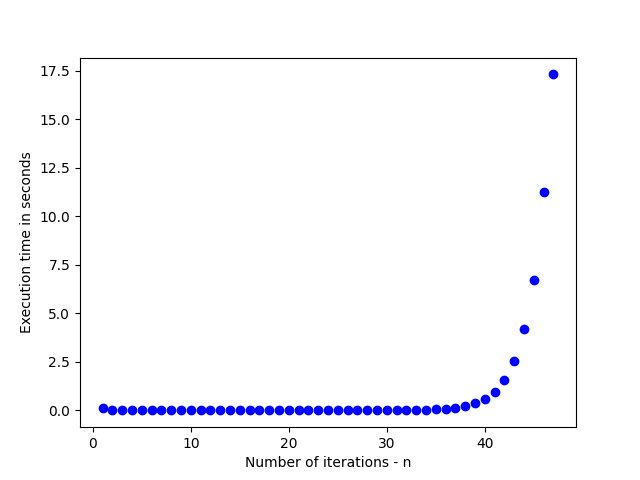
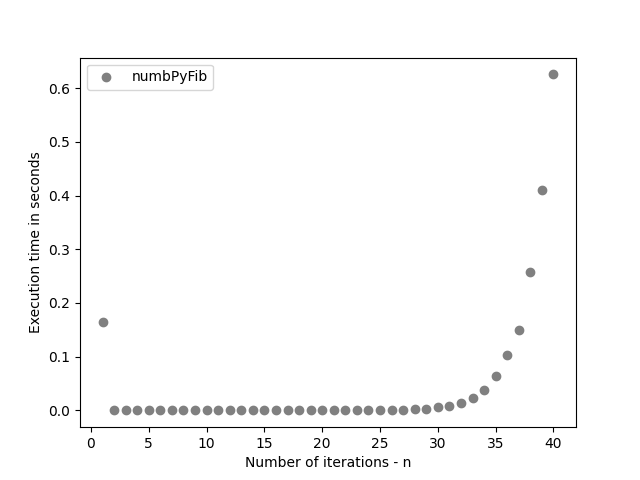
MA4 FInal

diff --git a/Pyhton_Assignments/MA4/MA4_files/MA4.py b/Pyhton_Assignments/MA4/MA4_files/MA4.py
@@ -23,11 +23,11 @@ def generate_images(n, epsilon):
         point_set_within_circle)  # we can do render using original set and points within the circle  trick but set approach is more cleaner
 
     # approximationg pi
-    import math
     print("Theoritical Pi- ", round(math.pi, 4))
     approx_pi = round(4 * (len(point_set_within_circle)) / len(point_set), 4)
     print("Appoximated Pi for {}- ".format(n), approx_pi)
     # now we draw unit circle green color
+
     import matplotlib
     matplotlib.use("Agg")
     import matplotlib.pyplot as plt
@@ -55,8 +55,8 @@ def scalar_of_point(point):
 def calc_len_of_inpoints_parallel(n, d, epsilon=0.0001):
     #print("Executing our Task on Process {}".format(os.getpid()))
     points_set = set(gen_point(d, epsilon) for _ in range(n))
-    oulier_set = set(e for e in points_set if scalar_of_point(e) <= 1)
-    inlier_set = points_set - oulier_set
+    inlier_set = set(e for e in points_set if scalar_of_point(e) <= 1)
+    oulier_set = points_set - inlier_set
     return len(inlier_set)
 
 
@@ -65,11 +65,15 @@ def hyperspace_volume_parallel(n, d, n_process=10, epsilon=0.0001):
     import concurrent.futures
     N = n//n_process
     with concurrent.futures.ProcessPoolExecutor(max_workers=n_process) as ex:
+
         result_futures = list(map(lambda x: ex.submit(
             calc_len_of_inpoints_parallel, N, d, epsilon), range(1, n_process+1)))
-        approx_pi = 4*(functools.reduce(lambda x, y: x+y,
+
+        approx_pi = 2**d*(functools.reduce(lambda x, y: x+y,
                        [e.result() for e in result_futures]))/n
+
         hyp_vol_1 = (math.pi ** d / 2) / (math.gamma(d / 2 + 1))
+        
         print("Exact value for Vd(1)- ", hyp_vol_1)
         print("Appoximated Pi for {}- ".format(n), approx_pi)
         return (hyp_vol_1, approx_pi)
@@ -77,12 +81,12 @@ def hyperspace_volume_parallel(n, d, n_process=10, epsilon=0.0001):
 
 def hyperspace_volume(n, d, epsilon=0.0001):
     points_set = set(gen_point(d, epsilon) for _ in range(n))
-    oulier_set = set(e for e in points_set if scalar_of_point(e) <= 1)
-    inlier_set = points_set - oulier_set
+    inlier_set = set(e for e in points_set if scalar_of_point(e) <= 1)
+    oulier_set = points_set - inlier_set
 
     hyp_vol_1 = (math.pi ** d / 2) / (math.gamma(d / 2 + 1))
     print("Exact value for Vd(1)- ", hyp_vol_1)
-    approx_pi = round(4 * (len(inlier_set)) / len(points_set), 4)
+    approx_pi = round(2**d * (len(inlier_set)) / len(points_set), 4)
     print("Appoximated Pi for {}- ".format(n), approx_pi)
     return (hyp_vol_1, approx_pi)
 
@@ -128,10 +132,27 @@ def plot_timings(time_stamps, fn_name):
     import matplotlib.pyplot as plt
     plt.xlabel("Number of iterations - n")
     plt.ylabel("Execution time in seconds")
-    # plt.xticks([ele[0] for ele in time_stamps])
-    # plt.yticks([ele[1] for ele in time_stamps])
-    plt.scatter(*zip(*time_stamps), color="blue")
+    #plt.xticks([ele[0] for ele in time_stamps])
+    #plt.yticks([ele[1] for ele in time_stamps])
+    plt.scatter(*zip(*time_stamps), color="gray", label=fn_name)
+    plt.legend()
     plt.savefig("Facto_reuslts_for_" + fn_name + ".png")
+    plt.close()
+
+def plot_allinOne(purePy, numbaPy, cppPy):
+    import matplotlib
+    matplotlib.use("Agg")
+    import matplotlib.pyplot as plt
+    plt.xlabel("Number of iterations - n")
+    plt.ylabel("Execution time in seconds")
+    #plt.xticks([ele[0] for ele in time_stamps])
+    #plt.yticks([ele[1] for ele in time_stamps])
+    plt.scatter(*zip(*purePy), color="red", label="Pure Python Execution")
+    plt.scatter(*zip(*numbaPy), color="green", label="Numba Execution")
+    plt.scatter(*zip(*cppPy), color="blue", label="CppRT Execution")
+    plt.legend()
+    plt.savefig("Facto_reuslts_for_AllinOne.png")
+    plt.close()
 
 
 def parallel_hyperVol(no_processes, n, d):
@@ -143,23 +164,17 @@ def parallel_hyperVol(no_processes, n, d):
 
 def main():
     '''
-	f = Integer(5)
-	print(f.get())
-	f.set(7)
-	print(f.get())
-	'''
-    '''
     epsilon = 0.0001
     for n in [50,100,200,400,1000,10000,100000]:
         generate_images(n, epsilon)
     hyperspace_volume(100000, 2)
-    '''
-
+    
     t1_start = perf_counter()
     hyperspace_volume(1000000, 11)
     t1_stop = perf_counter()
     delta = (t1_stop - t1_start)
     print("Elapsed time for hyperspace volumen(1) ST seconds: {}".format(delta))
+
 
     t1_start = perf_counter()
     hyperspace_volume_parallel(1000000, 11)
@@ -167,16 +182,32 @@ def main():
     delta = (t1_stop - t1_start)
     print("Elapsed time for hyperspace volumen(1) MT seconds: {}".format(delta))
 
+    
     # for the sake of clarity first c++ integration
+    print("Fib(47) form C++ val is  ",fib(47))
+    
     '''
+    import time
     print("\n **** Numba Py timings ****")
-    plot_timings(fn_timing_on_fib(fib_numba_python, 47), "numbPyFib")
+    timeStamps_numba = fn_timing_on_fib(fib_numba_python, 40)
+    plot_timings(timeStamps_numba, "numbPyFib")
+    time.sleep(1)
+
     print("\n **** C++ Integratiopn timinings ****")
-    plot_timings(fn_timing_on_fib(fib, 47), "cppFib")
+    timeStamps_cpp = fn_timing_on_fib(fib, 40)
+    plot_timings(timeStamps_cpp, "cppFib")
+    time.sleep(1)
+
     print("\n **** Pure Python timinings ****")
-    plot_timings(fn_timing_on_fib(fib_pure_python, 47), "purePyFib")
+    timeStamps_purepy = fn_timing_on_fib(fib_pure_python, 40)
+    plot_timings(timeStamps_purepy, "purePyFib")
+
+    plot_allinOne(timeStamps_purepy, timeStamps_numba, timeStamps_cpp)
     '''
-
-
+    f = Integer(5)
+    print(f.get())
+    f.set(7)
+    print(f.get())
+    '''
 if __name__ == '__main__':
     main()

diff --git a/Pyhton_Assignments/MA4/MA4_files/integer.py b/Pyhton_Assignments/MA4/MA4_files/integer.py
@@ -21,7 +21,7 @@ class Integer(object):
 		lib.Integer_set(self.obj, val)
 
 	def fib(self):
-		lib.Integer_fib(self.obj)
+		return lib.Integer_fib(self.obj)
 
 	def __del__(self):
 		return lib.Integer_delete(self.obj)
